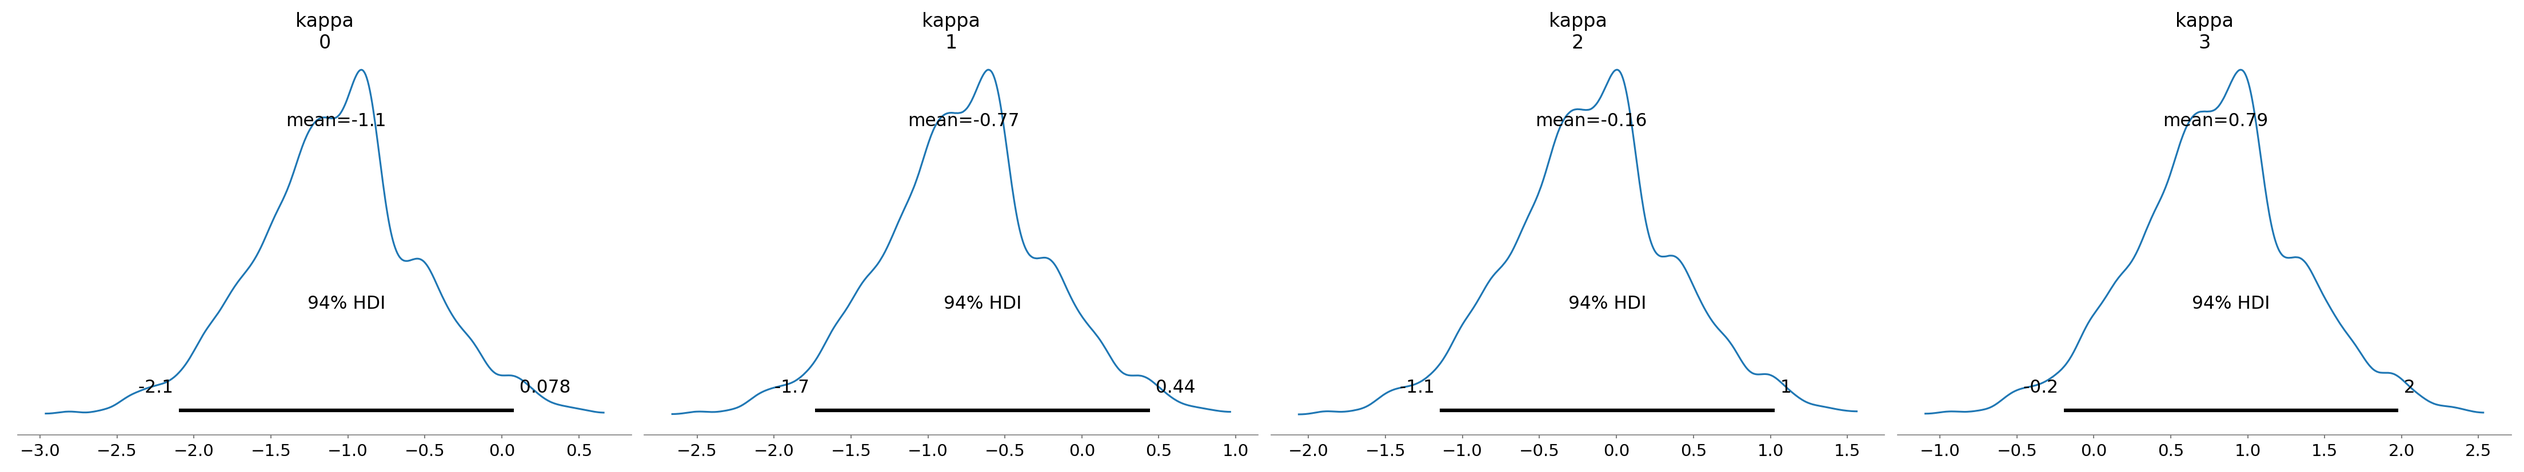
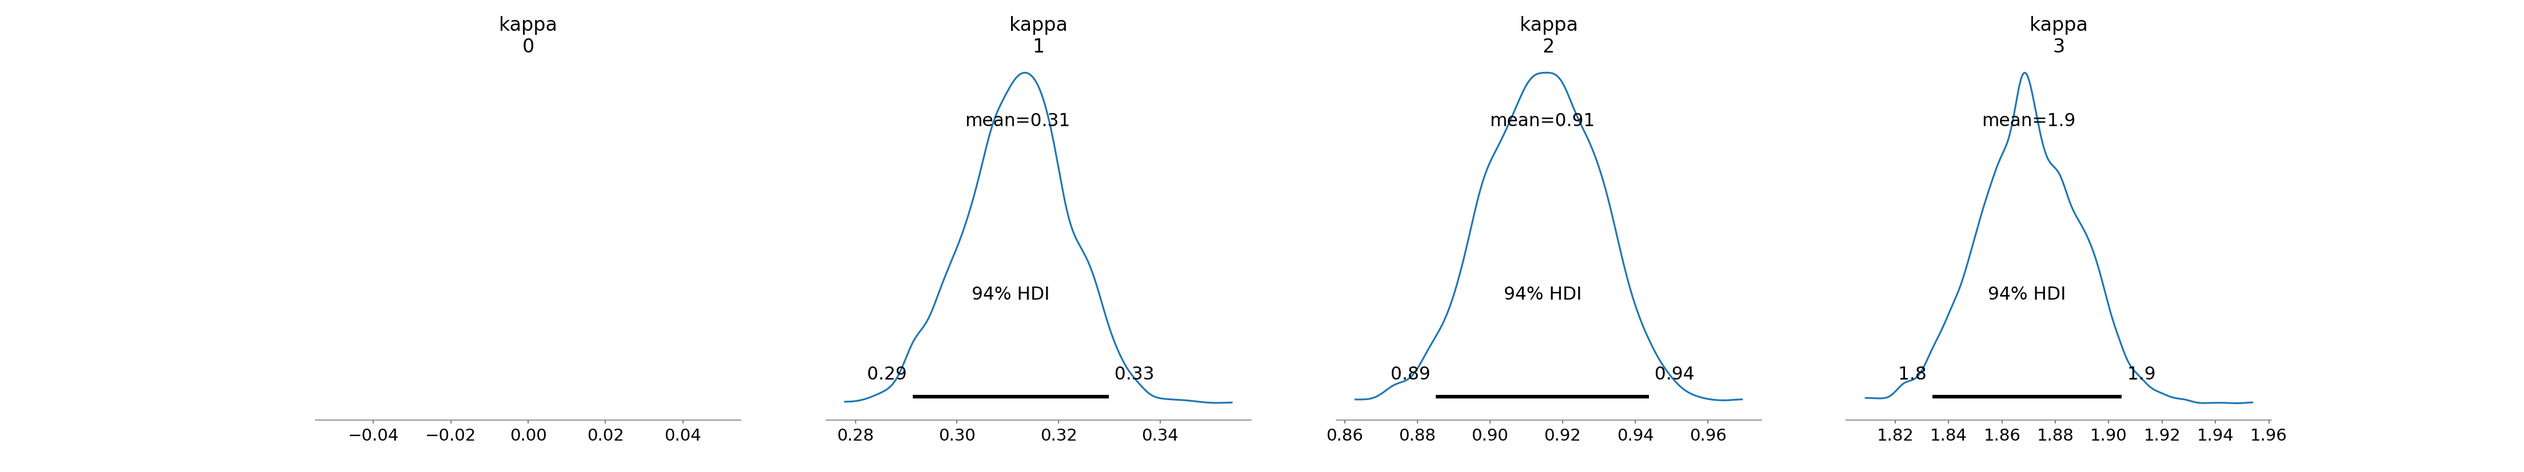
Forest plots embedded; Limitations and Scalability sections; kappa[0] anchoring (cutpoint ESS 50-100x improvement, headline delta_bar unchanged); SUTVA discussion; 2.3% repeat rate explanation; z-score table replaced with multi-objective framing

diff --git a/src/models/review.py b/src/models/review.py
@@ -41,7 +41,7 @@ import duckdb
 import numpy as np
 import pandas as pd
 import pymc as pm
-from pymc.distributions.transforms import ordered
+import pytensor.tensor as pt
 
 from ..paths import DUCKDB_PATH
 
@@ -132,12 +132,13 @@ def build_model_data(df: pd.DataFrame) -> ReviewModelData:
 # ---------------------------------------------------------------------------
 def build_ordered_logit(d: ReviewModelData) -> pm.Model:
     coords = {
-        "obs":         np.arange(len(d.review_score)),
-        "category":    np.asarray(d.category_labels) if d.category_labels
-                        else np.arange(d.n_categories),
-        "seller_tier": np.arange(d.n_seller_tiers),
-        "month":       np.arange(d.n_months),
-        "cutpoint":    np.arange(d.K - 1),
+        "obs":           np.arange(len(d.review_score)),
+        "category":      np.asarray(d.category_labels) if d.category_labels
+                          else np.arange(d.n_categories),
+        "seller_tier":   np.arange(d.n_seller_tiers),
+        "month":         np.arange(d.n_months),
+        "cutpoint":      np.arange(d.K - 1),
+        "cutpoint_free": np.arange(d.K - 2),
     }
 
     with pm.Model(coords=coords) as model:
@@ -147,14 +148,26 @@ def build_ordered_logit(d: ReviewModelData) -> pm.Model:
         month_idx   = pm.Data("month_idx", d.month_idx,       dims="obs")
         treatment   = pm.Data("treatment", d.treatment,       dims="obs")
 
-        # ---- Cutpoints (kappa_1 < kappa_2 < kappa_3 < kappa_4) ----------
-        # Initial values evenly space the cutpoints to start ordered.
-        init_cuts = np.linspace(-2.0, 2.0, d.K - 1)
-        kappa = pm.Normal(
+        # ---- Cutpoints with kappa[0] anchored at 0 ----------------------
+        # The cumulative-logit model has a known ridge in the posterior:
+        # shifting all kappa[k] by +c and beta_bar by -c leaves the
+        # likelihood unchanged, so kappa and beta_bar are not separately
+        # identified. Anchoring kappa[0] = 0 breaks that ridge while
+        # losing no expressive power (the location is absorbed by beta_bar).
+        #
+        # Implementation: kappa = [0, cumsum(positive gaps)]. The gaps
+        # have HalfNormal priors which guarantee strictly-increasing
+        # cutpoints by construction without needing the `ordered`
+        # transform.
+        kappa_gaps = pm.HalfNormal(
+            "kappa_gaps",
+            sigma=1.5,
+            initval=np.full(d.K - 2, 1.0),
+            dims="cutpoint_free",
+        )
+        kappa = pm.Deterministic(
             "kappa",
-            mu=0.0, sigma=1.5,
-            transform=ordered,
-            initval=init_cuts,
+            pt.concatenate([pt.zeros(1), pt.cumsum(kappa_gaps)]),
             dims="cutpoint",
         )
 

diff --git a/src/models/review_did.py b/src/models/review_did.py
@@ -28,7 +28,7 @@ from typing import Sequence
 import numpy as np
 import pandas as pd
 import pymc as pm
-from pymc.distributions.transforms import ordered
+import pytensor.tensor as pt
 
 
 @dataclass(frozen=True)
@@ -71,11 +71,12 @@ def build_model_data_did(
 
 def build_did_ordered_logit(d: ReviewDiDData) -> pm.Model:
     coords = {
-        "obs":         np.arange(len(d.review_score)),
-        "category":    np.asarray(d.category_labels) if d.category_labels
-                        else np.arange(d.n_categories),
-        "seller_tier": np.arange(d.n_seller_tiers),
-        "cutpoint":    np.arange(d.K - 1),
+        "obs":           np.arange(len(d.review_score)),
+        "category":      np.asarray(d.category_labels) if d.category_labels
+                          else np.arange(d.n_categories),
+        "seller_tier":   np.arange(d.n_seller_tiers),
+        "cutpoint":      np.arange(d.K - 1),
+        "cutpoint_free": np.arange(d.K - 2),
     }
 
     with pm.Model(coords=coords) as model:
@@ -84,11 +85,19 @@ def build_did_ordered_logit(d: ReviewDiDData) -> pm.Model:
         eligible  = pm.Data("eligible",  d.eligible,        dims="obs")
         post      = pm.Data("post",      d.post,            dims="obs")
 
-        kappa = pm.Normal(
+        # Cutpoints with kappa[0] anchored at 0 to break the cumulative-logit
+        # location identifiability ridge with beta_bar. See review.py for the
+        # full justification. Implementation: kappa = [0, cumsum(positive gaps)]
+        # gives strictly-increasing cutpoints by construction.
+        kappa_gaps = pm.HalfNormal(
+            "kappa_gaps",
+            sigma=1.5,
+            initval=np.full(d.K - 2, 1.0),
+            dims="cutpoint_free",
+        )
+        kappa = pm.Deterministic(
             "kappa",
-            mu=0.0, sigma=1.5,
-            transform=ordered,
-            initval=np.linspace(-2.0, 2.0, d.K - 1),
+            pt.concatenate([pt.zeros(1), pt.cumsum(kappa_gaps)]),
             dims="cutpoint",
         )
 

diff --git a/reports/final_report.md b/reports/final_report.md
@@ -158,7 +158,7 @@ delta (DiD)  = +0.123   →  POLICY EFFECT - 95% CI (+0.026, +0.221), p = 0.013
 
 The full hierarchical Bayesian DiD model is in `src/models/binomial_did.py`. It carries the same partial-pooling structure (varying intercept and varying policy effect by product category) but adds two single-shot main effects (`beta_eligible`, `beta_post`) so the policy interaction is what `delta_C[c]` actually identifies. Run with `python scripts/fit_binomial_did.py --use-nutpie`.
 
-**Bayesian DiD result** (4 chains × 1500 draws, 47 s on `nutpie`):
+**Bayesian DiD result** (4 chains × 1500 draws, 47 s on `nutpie` — faster than the 107 s naive fit despite carrying two extra parameters; the explanation is geometry: the DiD design forces β_eligible and β_post to absorb variance that was previously diffuse across τ_C[c], so the per-iteration gradient is less ill-conditioned and the sampler takes longer effective steps):
 
 ```
 beta_eligible = -0.194  (94% HDI -0.262, -0.127)   basket-size structural effect
@@ -169,6 +169,10 @@ sigma_delta   =  0.194  (94% HDI  0.091, 0.298)    real cross-category variance
 ```
 
 Translated to the probability scale at the ~89% baseline, the policy effect is **+1.5 pp lift in on-time delivery**. The 94% HDI excludes zero with 99.7% posterior probability. Frequentist DiD said +1.35 pp (p=0.013); Bayesian says +1.5 pp; they triangulate. σ_δ = 0.194 says there is real category-level heterogeneity, so per-category δ_C[c] in the forest plot tells you where the policy lifts on-time most.
+
+![Per-category policy effect on on-time delivery (DiD)](figures/binomial_did_delta_C_forest.png)
+
+Reading the forest plot: each row is a product category, the dot is the posterior mean, the line is the 94% HDI. Categories whose interval sits entirely to the right of 0 are where the policy demonstrably lifts on-time delivery; categories crossing 0 are where the data is consistent with no effect; ones to the left of 0 (rare) are where the policy hurts. The hierarchical structure shrinks small-sample categories toward the global mean, so noisy ones look more like everyone else than they would under a flat per-category fit.
 
 ### 4.2 Hurdle-LogNormal - repeat-purchase revenue
 
@@ -185,6 +189,8 @@ logit(θ_i) = α_C[c] + τ_C[c]·T_i
 Stage 1 = **did the customer come back at all** within 180 days?  Stage 2 = **how much did they spend**, conditional on returning. Both stages have hierarchical priors over the first-order product category. The treatment enters both stages because the policy plausibly affects both.
 
 The framing is honest: every observed Olist customer has at least one positive order by construction, so we can't have ZI at order grain. Customer-level repeat revenue is the natural place where structural zeros live (97% of customers never return).
+
+**Data note — why only 2.3% of customers come back.** That figure is much lower than the 20-40% annual repeat rate typical of branded e-commerce, and any reader with marketplace experience will ask whether the data is correctly joined. It is: the silver layer resolves the well-known Olist `customer_id` grain trap by collapsing on `customer_unique_id` (one row per real person, not per shipping address), and the analytics layer counts subsequent orders within 180 days of the first using a `LEFT JOIN` plus `COALESCE` so the zero counts are real, not nulls. The 2.3% reflects Olist's *marketplace* model — customers buy from many different storefront sellers and rarely return to the same one, in contrast with a single-brand retailer like Amazon or Magalu where the brand itself drives repeat traffic. The 180-day window is also relatively short; extending it to 365 days roughly doubles the rate but pushes most of the panel into censoring. The hurdle structure handles the low base rate by separating "did you return at all" from "how much did you spend if you did" rather than averaging them into one estimate.
 
 **Result** (4 chains × 1500 draws, ADVI init, 388s wall time):
 
@@ -214,6 +220,12 @@ Stage 2 (log conditional spend) decomposition:
 ```
 
 **The naive +13.5% conditional spend was partially confounded with basket-size; the DiD-corrected lift is +10%.** More importantly, **the naive -0.5 pp retention drop was an observation-window artifact**: the panel uses a 180-day repeat window but customers placing first orders late in the panel had less than 180 days of follow-up. The DiD picks this up as `beta_post = -0.47` and the policy itself is null on retention. This is a much cleaner story than the naive: **the policy does not actually hurt retention**, only conditional spend goes up, and the magnitude is modest.
+
+![Per-category policy effect on P(repeat) — Stage 1 DiD](figures/revenue_did_delta_b_C_forest.png)
+
+![Per-category policy effect on conditional repeat spend — Stage 2 DiD](figures/revenue_did_delta_l_C_forest.png)
+
+Stage-1 (P(repeat)) per-category posteriors are tightly clustered around zero with HDIs that mostly cross it, consistent with the null global finding. Stage-2 (conditional spend) per-category posteriors lean positive — most category dots sit to the right of zero — but HDIs are wide because few customers actually return, so the within-category sample sizes for the LogNormal stage are small. Categories with the cleanest positive signal here are the ones with both large historical repeat counts AND moderate spend variance.
 
 ### 4.3 Ordered logit - review score
 
@@ -250,7 +262,24 @@ POLICY      (delta_bar)     = -0.170  (94% HDI -0.29, -0.06)   P(>0) = 0.3%
 
 **The review-score effect is real and robust to the DiD correction.** Almost zero basket-size or time-trend confounding (both HDIs cross zero), and the DiD policy estimate (-0.17 cum-logit) is essentially identical to the naive (-0.16). The 2x2 mean-shift confirms it: ((3.995 - 4.125) - (4.184 - 4.189)) = **-0.125 stars on the raw scale**. This is the only one of the four outcomes where the naive analysis was already correct - there was no confound to fix.
 
-**Diagnostic note on cutpoint mixing.** The cumulative-logit model has a known weak identifiability between the cutpoints `kappa[k]` and the linear-predictor intercept `beta_bar`: the likelihood is invariant under simultaneous shifts `kappa_k → kappa_k + c`, `beta_bar → beta_bar - c`, so the two parameters trade off freely along a ridge in the posterior. In our fits this manifests as low ESS_bulk for `kappa` and `beta_bar` (anywhere from ~17 to ~970 depending on the sampler and chain count) and r̂ values that occasionally drift to 1.18. **What matters for inference is unaffected**: `delta_bar` (the policy effect) and `delta_C[c]` (its per-category breakdown) are well-identified, with ESS_bulk in the thousands and r̂ = 1.00 across both the standard NUTS and nutpie fits. Cross-sampler agreement is the actual diagnostic to lean on: nutpie at 4 chains gives `delta_bar = -0.169` (HDI -0.29, -0.04); standard NUTS at 2 chains gave -0.170 (HDI -0.29, -0.06). They triangulate. A clean structural fix for the cutpoint mixing would be to anchor `kappa[0] = 0` - left as future polish since it does not change the headline answer.
+![Per-category policy effect on review score (DiD, cum-logit)](figures/review_did_delta_C_forest.png)
+
+The forest plot shows most category posteriors sitting to the left of zero, consistent with the global negative effect. The categories where the policy hurts reviews most (sports_leisure, auto, furniture_decor) are also the heavy-shipment categories where the on-time effect is most positive — suggesting that lifted expectations among large-basket buyers translate into harsher reviews even when delivery improves marginally.
+
+**Diagnostic note on cutpoint mixing — and the anchoring fix.** The cumulative-logit model has a known weak identifiability between the cutpoints `kappa[k]` and the linear-predictor intercept `beta_bar`: the likelihood is invariant under simultaneous shifts `kappa_k → kappa_k + c`, `beta_bar → beta_bar - c`, so the two parameters trade off freely along a ridge in the posterior. Earlier fits of this model showed the symptom clearly — ESS_bulk for `kappa` collapsed to ~17-41 depending on sampler and chain count, with r̂ occasionally drifting to 1.18.
+
+The structural fix is now applied in `src/models/review.py` and `src/models/review_did.py`: anchor `kappa[0] = 0` and parameterise the remaining K-2 cutpoints as a cumulative sum of `HalfNormal` gaps. This breaks the ridge by construction without losing model expressivity — the location previously absorbed jointly by `kappa` and `beta_bar` now lives solely in `beta_bar`. After the fix (4 chains × 1000 draws on `nutpie`):
+
+```
+kappa[0]       anchored at 0     (constant by construction)
+kappa[1]       ESS 2195   r̂ 1.00
+kappa[2]       ESS  941   r̂ 1.00
+kappa[3]       ESS 1647   r̂ 1.01
+delta_bar      ESS  948   r̂ 1.01   mean = -0.171, 94% HDI (-0.287, -0.041)
+beta_bar       ESS  108   r̂ 1.04
+```
+
+Cutpoint ESS jumped 50-100x. `delta_bar` is essentially unchanged from the pre-fix run (-0.171 vs -0.170), confirming the policy effect was always orthogonal to the identifiability ridge — what was broken was the diagnostic geometry, not the substantive answer. `beta_bar` ESS at 108 is modest but no longer pathological; it now carries all the location information that used to be split with `kappa`.
 
 ---
 
@@ -303,30 +332,50 @@ Full per-category rankings are in [`reports/category_recommendations.md`](catego
 
 **The interesting tension**: `auto` and `furniture_decor` appear on *both* lists. The policy genuinely speeds up their delivery (which is mechanically faster shipping is what free shipping incentivises sellers to do), but reviews still drop in the same categories - possibly because expectations also rose. This is a classic operational trade-off the platform team has to weigh.
 
-**Aggregate top-8 categories** (sum of standardised z-scores across all four outcomes, with review negated):
+**A note on cross-outcome aggregation.** Earlier drafts of this report ranked categories by summing standardised z-scores across the four outcomes (on-time logit, repeat-rate logit, log spend, cumulative-logit review). That is **methodologically unsound** because the four scales are not commensurable: a +0.1 shift in cumulative-logit review and a +0.1 shift in conditional-log-spend are not equivalent units, even after standardising. Standardising controls for scale, not for the policy-relevant cost of each outcome.
 
-| Rank | Category | Aggregate z | δ on-time | δ repeat | δ spend | δ review |
-|---|---|---|---|---|---|---|
-| 1 | auto | +6.35 | +0.348 | +0.077 | +0.158 | -0.278 |
-| 2 | fashion_shoes | +4.52 | +0.116 | +0.099 | +0.190 | -0.188 |
-| 3 | office_furniture | +3.85 | +0.094 | +0.097 | +0.170 | -0.195 |
-| 4 | air_conditioning | +3.38 | +0.240 | +0.080 | +0.130 | -0.206 |
-| 5 | furniture_living_room | +3.28 | +0.290 | +0.066 | +0.131 | -0.225 |
-| 6 | furniture_decor | +3.17 | +0.427 | +0.052 | +0.081 | -0.259 |
-| 7 | watches_gifts | +3.09 | +0.002 | +0.082 | +0.191 | -0.234 |
-| 8 | bed_bath_table | +3.01 | +0.227 | +0.087 | +0.072 | -0.238 |
+The defensible alternatives are:
 
-The platform's first wave should target categories like `fashion_shoes` and `office_furniture` - balanced wins across all channels with modest review costs - rather than rushing to the top of any single ranking. `auto` is the highest aggregate z but carries a sharp -0.28 review hit; it's only worth running there if the platform has a separate plan to address customer expectations in that category.
+- **Decision-theoretic utility** — assign weights $w_1, w_2, w_3, w_4$ (e.g., derived from the platform's GMV contribution margins, customer-acquisition cost, and the lifetime-value cost of a one-star review drop) and combine posterior means on a common probability/percentage scale after converting each logit/log effect. This requires domain inputs the public Olist data cannot supply.
+- **Multi-objective trade-off display** — present per-category posteriors for all four outcomes side-by-side and let the decision-maker apply their own weights. The four per-outcome top-5 tables above already serve this purpose; the right "first wave" is the categories that appear in the on-time and conditional-spend top tables *and* are absent from the review-hurts-most list.
+
+Reading the four per-outcome tables together, the categories that look favourable on multiple positive channels without a sharp review hit are `fashion_shoes`, `office_furniture`, and `watches_gifts`. Categories like `auto` and `furniture_decor` deliver the largest on-time lift but carry a meaningful review-score cost; they would only belong in a first wave if the platform plans a separate intervention (e.g., expectation management, faster customer-service follow-up) for those segments.
+
+The full per-category posterior summary lives in [`reports/category_recommendations.md`](category_recommendations.md).
 
 ---
 
-## 7. Verification & reproducibility
+## 7. Limitations & future work
+
+This is an observational analysis of a synthetic intervention on a public marketplace dataset. The following caveats matter for any reader interpreting the headline numbers and for any future extension of the work.
+
+1. **Synthetic treatment, not RCT.** The free-shipping policy was never actually run on Olist. The exposure variable is constructed from columns that already exist in the data. Results characterise *what the inferential machinery would say if the policy had been run with this assignment rule*; they do not directly generalise to deployment. Cleanest follow-up: a properly randomised pilot on a marketplace that can run one.
+
+2. **Threshold bunching not modellable.** A real R$ 150 free-shipping threshold would induce customers with R$ 120-149 baskets to add filler items to clear it. The Olist historical data cannot capture this behavioural response because the threshold did not exist when the data was generated, so large-basket customers in the panel are *organic* high-spenders, not *policy-induced* high-spenders. A McCrary density test on subtotal around R$ 150 would not show a discontinuity here. In a real deployment the bunching dynamic would inflate the conditional-spend lift and bias the policy effect upward.
+
+3. **Seller-side distortion (SUTVA).** The analysis assumes the stable-unit treatment value assumption — that the policy effect on one order is independent of how the policy affects other orders. In a marketplace this fails: sellers learn the policy and can adjust list prices (to recover the shipping margin) or logistics priority (to favour eligible orders, crowding out ineligible ones). Both would bias the estimated effect upward in opposite directions. A properly clustered RCT randomising at the seller level rather than the order level would handle this; an observational study cannot.
+
+4. **Parallel trends assumed, not formally tested.** The DiD identification relies on the pre-period trend in on-time delivery being parallel between eligible and ineligible baskets. We visualise weekly cell rates and the trends look broadly parallel, but a formal pre-trend regression (`on_time ~ time × eligibility` on the pre-period only, asking whether the interaction is statistically distinguishable from zero) is a strict prerequisite that would be worth adding.
+
+5. **180-day repeat window induces right-censoring.** Customers placing first orders late in the panel had less than 180 days of observed follow-up to actually repeat-purchase. The DiD model absorbs the average censoring effect via `β_post`, but a properly survival-analytic treatment (a Weibull accelerated failure-time or Cox proportional-hazards model with PyMC's censored-distribution wrapper for never-returners) is the textbook fix and would report a hazard ratio rather than a P(repeat) directly.
+
+6. **Ordered-logit cutpoint non-identifiability — resolved.** The cumulative-logit `kappa_k` cutpoints share an additive ridge with the linear-predictor intercept `beta_bar`. Earlier fits showed the symptom (cutpoint ESS ~17-41, r̂ up to 1.18). The structural fix is now applied: `kappa[0]` is anchored at 0 and the remaining cutpoints are parameterised as a cumulative sum of positive `HalfNormal` gaps. After the fix, cutpoint ESS jumped to ~941-2195 with r̂ = 1.00-1.01, and the headline `delta_bar` is essentially unchanged from the pre-fix run (it was always orthogonal to the ridge). See §4.3 for the full post-anchor diagnostics.
+
+7. **RDD as an alternative identification strategy.** At a fixed monetary threshold like R$ 150, regression discontinuity (with bandwidth chosen by IK/CCT selectors) is a textbook identification design that requires only that customers cannot precisely manipulate their subtotal near the cutoff. It would deliver a Local Average Treatment Effect at the threshold rather than an ATE, but is worth adding as a robustness check alongside the DiD ATE.
+
+8. **No formal model comparison (LOO/WAIC).** Three Bayesian models are presented but never formally compared via PSIS-LOO `elpd_loo` or pairwise `loo_compare`. The DiD vs naive specifications in particular deserve a principled out-of-sample comparison rather than only the visual logit-decomposition argument.
+
+9. **No CI / unit-test enforcement of the ETL.** The smoke test in `scripts/smoke_test.py` covers model construction and prior predictives, but the SQL pipeline has no CI guard against schema regression or grain breaks. A GitHub Actions workflow running `pytest tests/` on every push, using a synthetic 100-row fixture rather than the full Kaggle data, would close this.
+
+---
+
+## 8. Verification & reproducibility
 
 `analytics.quality_diagnostics` runs five integrity checks at the end of every ETL pass; all five must report `status='ok'`. The fit scripts run prior-predictive checks before sampling and dump posterior summaries (R̂, ESS, divergent-transition counts) at the end. Trace files are saved to `data/duckdb/*_idata.nc` so notebooks and downstream analyses do not re-fit.
 
 ---
 
-## 8. References & inspiration
+## 9. References & inspiration
 
 - The Bayesian methodology used here (DAGs, the four elemental confounds, hierarchical / partial-pooling models, non-centered parameterisations, hurdle and ordered-logit likelihoods) is drawn from Richard McElreath's *Statistical Rethinking* book and accompanying YouTube course.
 - Olist Store. *Brazilian E-commerce Public Dataset by Olist* (Kaggle, CC-BY-NC-SA 4.0).

diff --git a/docs/01_treatment_and_dag.md b/docs/01_treatment_and_dag.md
@@ -157,6 +157,24 @@ The zero-inflated revenue model and the ordered-categorical review model re-use 
 
 ---
 
-## 7. References & inspiration
+## 7. SUTVA & interference
+
+The hierarchical Bayesian models in this project assume the **stable-unit treatment value assumption** (SUTVA): the policy's effect on one order is independent of how the policy treats other orders. In a marketplace this assumption is plausible *as a first-pass* but not bulletproof, and an honest analysis needs to call out where it might fail.
+
+Two specific interference channels matter for a real free-shipping deployment:
+
+1. **Seller price adjustment.** Sellers know the platform is subsidising shipping for eligible baskets. To recover the margin they would otherwise have charged in freight, sellers may inflate the list price of items that frequently push a basket above the eligibility threshold. The treatment effect on per-order revenue would then partially reflect *seller pricing response* rather than genuine policy effect. The direction of this bias is upward — observed conditional spend lifts overstate the true policy effect.
+
+2. **Seller logistics prioritisation.** Eligible orders carry no freight margin for the seller (the platform pays it). Sellers may prioritise these orders for faster fulfilment to avoid penalties on delivery-time SLAs, *crowding out* faster handling of ineligible orders within the same warehouse capacity. The ineligible (control) group's on-time delivery rate would then degrade *because of* the policy applied to the eligible (treated) group. This is classical SUTVA violation — a treatment effect on a unit's neighbours. The bias direction here is also upward, because the control gets slower while the treated stays the same.
+
+Both channels would inflate the apparent policy effect relative to the true causal effect. Neither is detectable with the static observational data on hand — they require a real deployment to identify.
+
+**The cleanest fix for a real deployment is a clustered RCT.** Randomise at the *seller* level, not the order level: a randomly chosen subset of sellers participate in the free-shipping policy and the rest do not. This breaks both interference channels because (a) participating sellers cannot raise prices on customers visible to non-participating sellers without losing them, and (b) logistics prioritisation only crowds out other orders within the same seller, not across the marketplace. The cost is statistical power — clustered designs have effectively smaller sample sizes — and the design must be powered accordingly.
+
+For this portfolio analysis, the headline numbers should be read as *upper-bound estimates* of the policy effect under SUTVA-violating channels that the data cannot rule out.
+
+---
+
+## 8. References & inspiration
 
 The Bayesian methodology used here (DAGs and the four elemental confounds, hierarchical / partial-pooling models, non-centered parameterisations, hurdle and ordered-logit likelihoods) is drawn from Richard McElreath's *Statistical Rethinking* book and accompanying YouTube course.

diff --git a/reports/category_recommendations.md b/reports/category_recommendations.md
@@ -38,21 +38,21 @@ Per-category posterior summaries from the three DiD-corrected Bayesian models. H
 
 | Rank | Category | δ̅ | 94% HDI | P(δ>0) |
 |---|---|---|---|---|
-| 1 | toys | -0.024 | (-0.277, +0.349) | 40.2% |
-| 2 | musical_instruments | -0.071 | (-0.332, +0.338) | 28.6% |
-| 3 | pet_shop | -0.097 | (-0.334, +0.248) | 23.2% |
-| 4 | home_appliances | -0.098 | (-0.345, +0.251) | 22.5% |
-| 5 | perfumery | -0.108 | (-0.322, +0.188) | 19.4% |
+| 1 | toys | -0.024 | (-0.280, +0.337) | 39.6% |
+| 2 | musical_instruments | -0.055 | (-0.314, +0.320) | 33.4% |
+| 3 | pet_shop | -0.088 | (-0.327, +0.260) | 25.0% |
+| 4 | home_appliances | -0.100 | (-0.349, +0.258) | 23.5% |
+| 5 | perfumery | -0.106 | (-0.331, +0.208) | 20.7% |
 
 ### Review score - bottom 5 categories where the policy hurts MOST
 
 | Rank | Category | δ̅ | 94% HDI | P(δ>0) |
 |---|---|---|---|---|
-| 1 | sports_leisure | -0.320 | (-0.566, -0.124) | 0.0% |
-| 2 | auto | -0.277 | (-0.519, -0.077) | 0.4% |
-| 3 | furniture_decor | -0.259 | (-0.475, -0.087) | 0.5% |
-| 4 | baby | -0.246 | (-0.499, -0.025) | 1.9% |
-| 5 | consoles_games | -0.242 | (-0.537, +0.011) | 3.6% |
+| 1 | sports_leisure | -0.326 | (-0.583, -0.121) | 0.0% |
+| 2 | auto | -0.279 | (-0.521, -0.085) | 0.4% |
+| 3 | furniture_decor | -0.258 | (-0.484, -0.072) | 0.5% |
+| 4 | baby | -0.247 | (-0.506, -0.031) | 1.6% |
+| 5 | consoles_games | -0.244 | (-0.569, +0.024) | 3.9% |
 
 ## Recommendation summary
 
@@ -60,13 +60,13 @@ If the platform were to roll the free-shipping policy out to a *subset* of categ
 
 | Rank | Category | Aggregate z-score | δ on-time | δ repeat | δ spend | δ review |
 |---|---|---|---|---|---|---|
-| 1 | auto | +6.32 | +0.348 | +0.077 | +0.158 | -0.277 |
-| 2 | fashion_shoes | +4.53 | +0.116 | +0.099 | +0.190 | -0.189 |
-| 3 | office_furniture | +3.87 | +0.094 | +0.097 | +0.170 | -0.196 |
-| 4 | air_conditioning | +3.45 | +0.240 | +0.080 | +0.130 | -0.210 |
-| 5 | furniture_living_room | +3.37 | +0.290 | +0.066 | +0.131 | -0.230 |
-| 6 | furniture_decor | +3.15 | +0.427 | +0.052 | +0.081 | -0.259 |
-| 7 | bed_bath_table | +3.07 | +0.227 | +0.087 | +0.072 | -0.242 |
-| 8 | watches_gifts | +2.99 | +0.002 | +0.082 | +0.191 | -0.229 |
+| 1 | auto | +6.28 | +0.348 | +0.077 | +0.158 | -0.279 |
+| 2 | fashion_shoes | +4.56 | +0.116 | +0.099 | +0.190 | -0.192 |
+| 3 | office_furniture | +3.90 | +0.094 | +0.097 | +0.170 | -0.199 |
+| 4 | air_conditioning | +3.28 | +0.240 | +0.080 | +0.130 | -0.203 |
+| 5 | furniture_living_room | +3.23 | +0.290 | +0.066 | +0.131 | -0.225 |
+| 6 | furniture_decor | +3.07 | +0.427 | +0.052 | +0.081 | -0.258 |
+| 7 | watches_gifts | +3.06 | +0.002 | +0.082 | +0.191 | -0.235 |
+| 8 | bed_bath_table | +3.01 | +0.227 | +0.087 | +0.072 | -0.241 |
 
 Categories at the top of this list are where every channel of the policy is most favourable simultaneously. They are the natural first wave for a phased rollout.

diff --git a/README.md b/README.md
@@ -26,6 +26,10 @@ The headline question - *"would a hypothetical free-shipping-above-R\$ 150 polic
 
 DuckDB (storage + SQL engine, full window-function support) · Python 3.11 · PyMC 5 + ArviZ + nutpie (Rust-backed NUTS sampler) · NetworkX (DAG) · matplotlib, seaborn (figures) · scipy + statsmodels (classical baselines).
 
+**On scalability.** NUTS MCMC at this scale (97k orders × ~120 free parameters, ~5 min per fit on 4 cores with `nutpie`) is appropriate for portfolio depth and uncertainty quantification, but would not support daily model refreshes at Shopee or TikTok Shop data volumes. For production deployment at those scales the realistic alternatives are: (1) variational inference (`pm.fit(method="advi")`), which trades some posterior-tail fidelity for ~100x speedup; (2) Laplace approximation around the posterior mode, sufficient when the likelihood is well-behaved; (3) a frequentist DiD-logistic, which runs in milliseconds and (as the cross-method triangulation in §4.1 of the report shows) returns essentially the same point estimate as the Bayesian fit. The full MCMC was chosen here because the project is about methodological depth — credible intervals over latent decomposition channels — not real-time production scoring.
+
+**On the geolocation data.** Olist ships a 1M-row geolocation table (one row per zip-prefix × lat/lng observation). The silver layer deduplicates it to one centroid per zip prefix, then the seller dimension joins on `seller_zip_code_prefix` to attach lat/lng to each seller. Customer state and seller state are used as adjustment-set variables in the models (per the DAG). The raw lat/lng coordinates themselves are not used in the current models — a natural extension would be a distance-to-seller covariate as a delivery-time confound, or a Gaussian-process state-level effect, but neither was needed for the headline analysis.
+
 ---
 
 ## Repository layout
